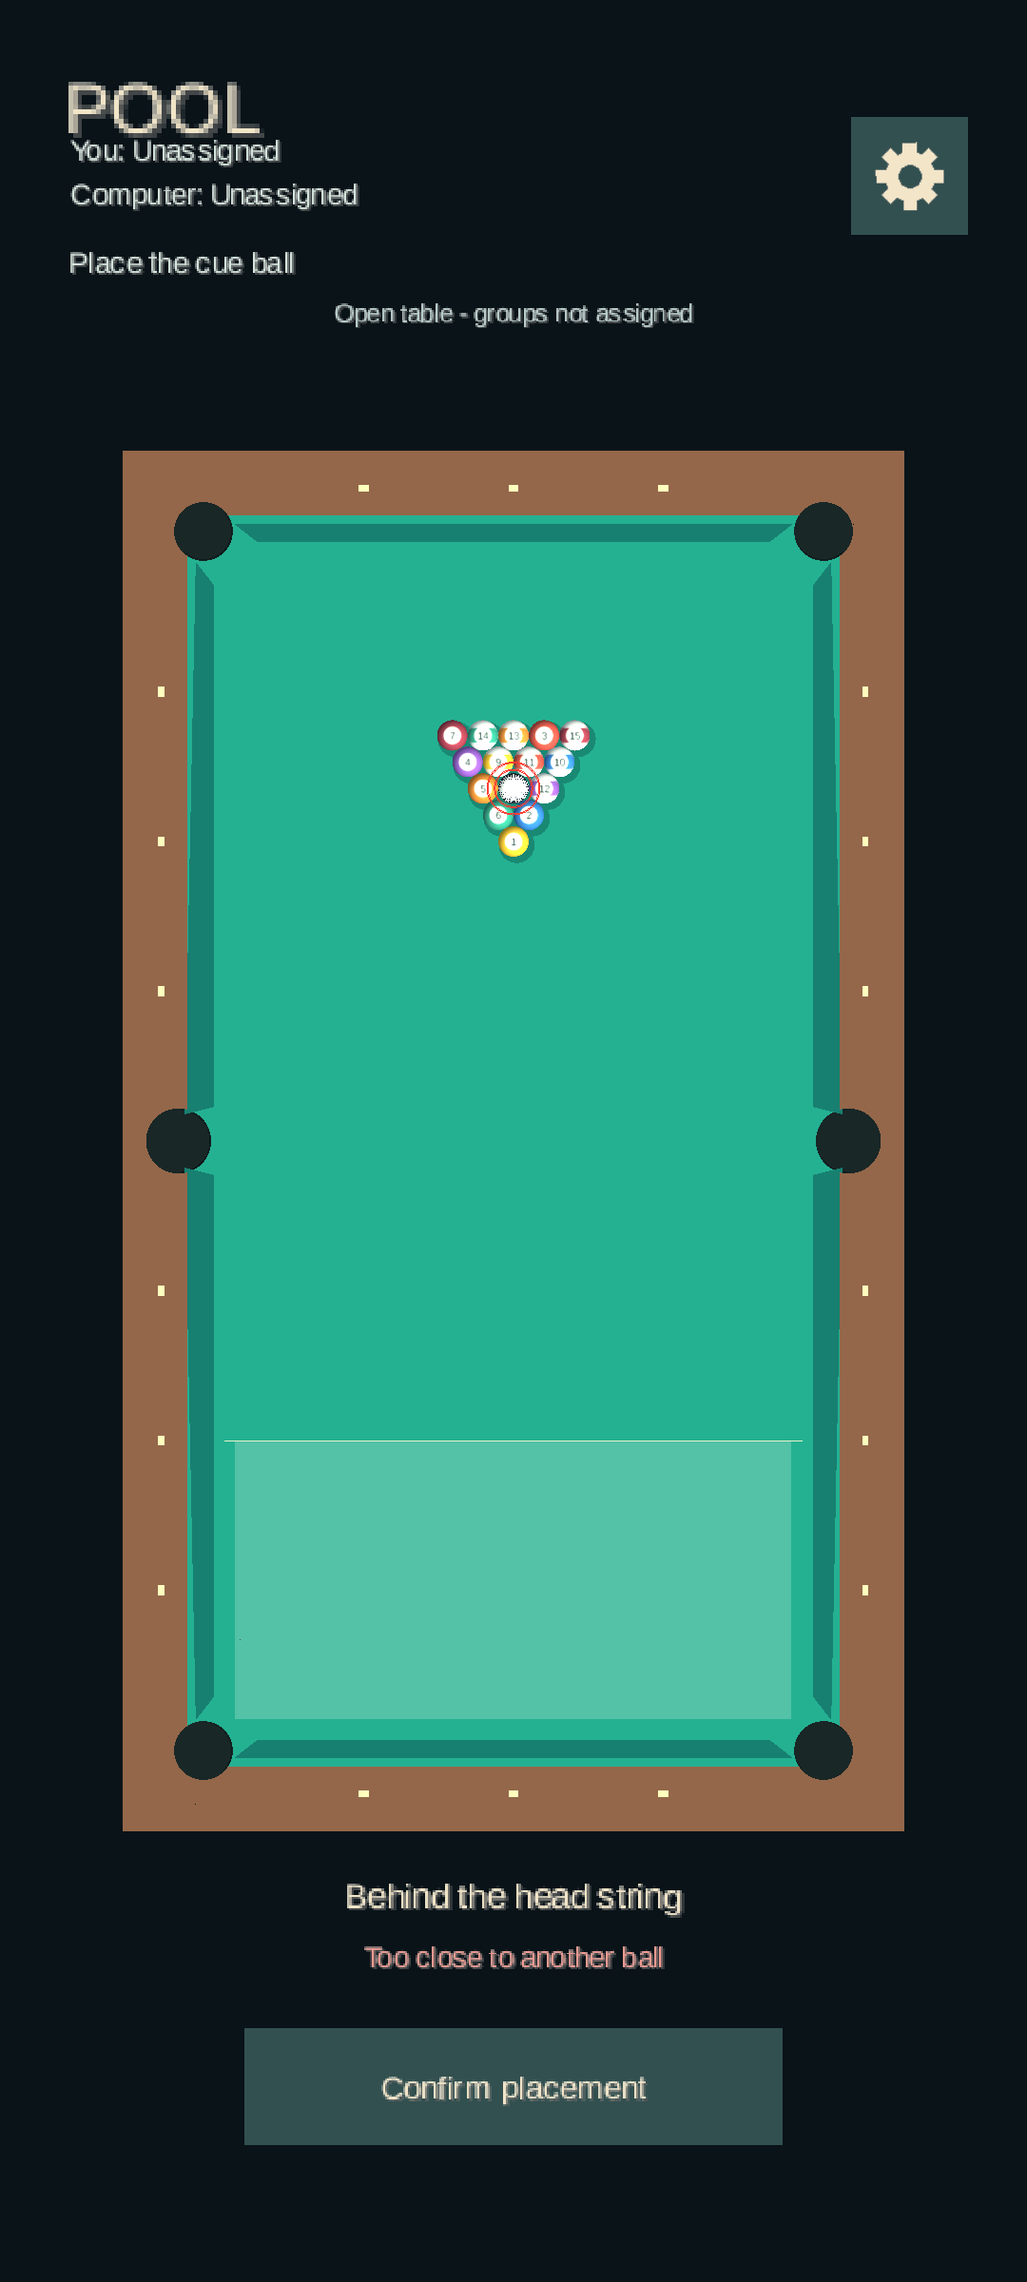
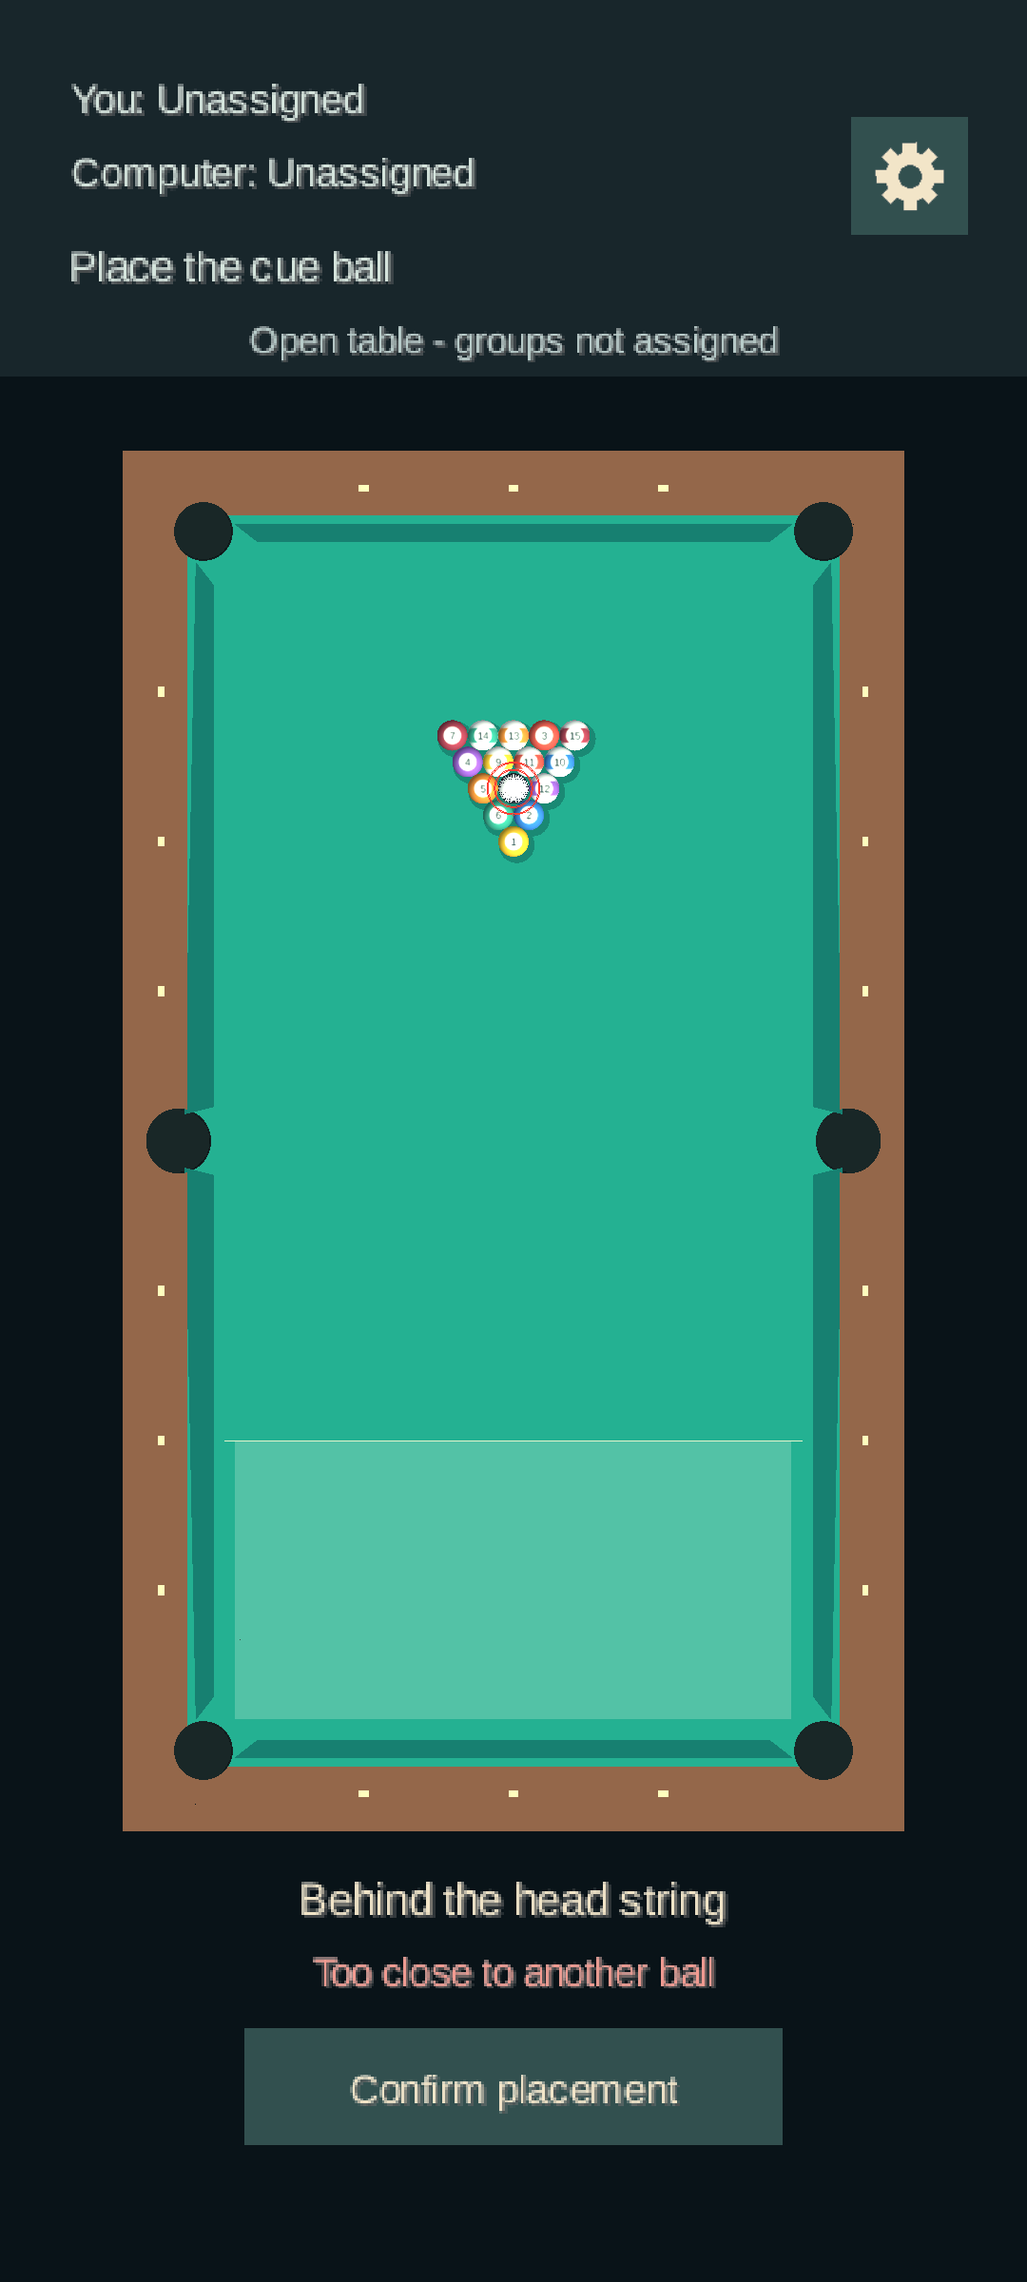
Improve text readability and prioritize useful ball-in-hand positions

Changed region(s): [[0.0611, 0.0312, 0.7639, 0.1562], [0.275, 0.8125, 0.7028, 0.875], [0.3361, 0.9062, 0.6722, 0.9375]]

diff --git a/core/src/main/kotlin/io/github/ffeltrinelli/pool/ui/GameHud.kt b/core/src/main/kotlin/io/github/ffeltrinelli/pool/ui/GameHud.kt
@@ -47,33 +47,34 @@ class GameHud : Disposable {
         val h = layout.uiHeight
         sprites.projectionMatrix = camera.combined
         sprites.begin()
-        text("POOL", 28f, h - 34f, 1.9f, "f2e5c8")
+        val headerHeight = if (presentation.notice != null && !session.finished) 220f else 154f
+        rectangle(Rectangle(0f, h - headerHeight, 420f, headerHeight), "08161ced")
         fun groupLabel(player: Player): String = session.group(player)?.let {
             "${it.label}: ${session.remaining(player)} left"
         } ?: "Unassigned"
-        text("You: ${groupLabel(Player.HUMAN)}", 29f, h - 57f, 0.78f, "d5e5dd")
-        text("Computer: ${groupLabel(Player.COMPUTER)}", 29f, h - 75f, 0.78f, "d5e5dd")
+        text("You: ${groupLabel(Player.HUMAN)}", 29f, h - 34f, 1.10f, "d5e5dd")
+        text("Computer: ${groupLabel(Player.COMPUTER)}", 29f, h - 64f, 1.10f, "d5e5dd")
         val status = when {
             presentation.computerThinking -> "Computer thinking..."
             session.placement != null -> if (session.player == Player.HUMAN) "Place the cue ball" else "Computer placing cue ball"
-            session.group(session.player) == null -> "${if (session.player == Player.HUMAN) "Your turn" else "Computer's turn"} - open table"
+            session.group(session.player) == null -> if (session.player == Player.HUMAN) "Your turn" else "Computer's turn"
             session.remaining(session.player) == 0 -> if (session.player == Player.HUMAN) "You're on the 8-ball" else "Computer is on the 8-ball"
             session.player == Player.HUMAN -> "Your turn"
             else -> "Computer's turn"
         }
-        text(status, 29f, h - 103f, 0.80f, "d5e5dd")
+        text(status, 29f, h - 103f, 1.15f, "d5e5dd")
         if (session.group(session.player) == null && !session.finished)
-            text("Open table - groups not assigned", 210f, h - 124f, 0.68f, "b8ccca", true)
+            text("Open table - groups not assigned", 210f, h - 133f, 1.00f, "b8ccca", true)
         if (presentation.notice != null && !session.finished) {
-            font.data.setScale(0.72f)
+            font.data.setScale(1.05f)
             font.color = Color.valueOf("f2d295")
-            font.draw(sprites, presentation.notice, 30f, h - 146f, 360f, com.badlogic.gdx.utils.Align.center, true)
+            font.draw(sprites, presentation.notice, 30f, h - 161f, 360f, com.badlogic.gdx.utils.Align.center, true)
         }
         if (session.placement != null && session.player == Player.HUMAN) {
             val instruction = if (session.placement == io.github.ffeltrinelli.pool.rules.PlacementRegion.ANYWHERE)
                 "Anywhere on the table" else "Behind the head string"
-            text(instruction, 210f, 163f, 0.95f, "f2e5c8", true)
-            text(presentation.placementError ?: "Tap or drag the highlighted ball", 210f, 137f, 0.78f,
+            text(instruction, 210f, 163f, 1.2f, "f2e5c8", true)
+            text(presentation.placementError ?: "Tap or drag the highlighted ball", 210f, 133f, 1.05f,
                 if (presentation.placementError == null) "b8ccca" else "f29b91", true)
             button(layout.confirmPlacement, "Confirm placement", presentation.placementError == null)
         }
@@ -92,12 +93,12 @@ class GameHud : Disposable {
     private fun drawSettings(mode: ViewMode, aidedAim: Boolean, difficulty: OpponentDifficulty) {
         shade()
         rectangle(layout.panel, "163039")
-        text("SETTINGS", 60f, layout.uiHeight / 2 + 202.5f, 1.35f, "f2e5c8")
+        text("SETTINGS", 60f, layout.uiHeight / 2 + 202.5f, 1.5f, "f2e5c8")
         button(layout.close, "X")
-        text("View mode", 60f, layout.uiHeight / 2 + 157.5f, 0.92f, "b8ccca")
+        text("View mode", 60f, layout.uiHeight / 2 + 163.5f, 1.1f, "b8ccca")
         button(layout.top, "Top view", mode == ViewMode.TOP)
         button(layout.player, "Player view", mode == ViewMode.PLAYER)
-        text("Aided aim", 60f, layout.uiHeight / 2 + 72.5f, 0.92f, "b8ccca")
+        text("Aided aim", 60f, layout.uiHeight / 2 + 78.5f, 1.1f, "b8ccca")
         button(layout.aidedAim, if (aidedAim) "On" else "Off", aidedAim)
         drawDifficulty(difficulty)
         button(layout.restart, "Restart")
@@ -106,7 +107,7 @@ class GameHud : Disposable {
 
     private fun drawDifficulty(difficulty: OpponentDifficulty) {
         val track = layout.difficulty
-        text("Difficulty: ${difficulty.label}", 60f, track.y + 67f, 0.92f, "b8ccca")
+        text("Difficulty: ${difficulty.label}", 60f, track.y + 73f, 1.1f, "b8ccca")
         rectangle(Rectangle(track.x + 50f, track.y + 22f, 200f, 4f), "527e70")
         for ((index, level) in OpponentDifficulty.entries.withIndex()) {
             val stop = layout.difficultyStops[index]
@@ -114,7 +115,7 @@ class GameHud : Disposable {
             val selected = level == difficulty
             rectangle(Rectangle(center - 5f, stop.y + 18f, 10f, 12f), "8ba6a8")
             if (selected) rectangle(Rectangle(center - 10f, stop.y + 14f, 20f, 20f), "d9bd83")
-            text(level.label, center, stop.y - 10f, 0.82f, if (selected) "f2e5c8" else "b8ccca", true)
+            text(level.label, center, stop.y - 10f, 1.05f, if (selected) "f2e5c8" else "b8ccca", true)
         }
     }
 
@@ -122,14 +123,17 @@ class GameHud : Disposable {
         val center = layout.uiHeight / 2
         shade()
         rectangle(Rectangle(30f, center - 112f, 360f, 225f), "163039")
-        text("MATCH COMPLETE", 210f, center + 80f, 0.72f, "9dbbb7", true)
+        text("MATCH COMPLETE", 210f, center + 80f, 1.0f, "9dbbb7", true)
         val result = when (session.result) {
             MatchResult.HUMAN_WINS -> "You win"
             MatchResult.COMPUTER_WINS -> "Computer wins"
             null -> ""
         }
-        text(result, 210f, center + 40f, 1.35f, "f2e5c8", true)
-        text(session.outcome?.decision?.loss ?: "Eight legally pocketed", 210f, center + 6f, 0.7f, "b8ccca", true)
+        text(result, 210f, center + 40f, 1.6f, "f2e5c8", true)
+        font.data.setScale(1f)
+        font.color = Color.valueOf("b8ccca")
+        font.draw(sprites, session.outcome?.decision?.loss ?: "Eight legally pocketed", 50f, center + 8f,
+            320f, com.badlogic.gdx.utils.Align.center, true)
         button(layout.playAgain, "PLAY AGAIN")
     }
 
@@ -146,7 +150,7 @@ class GameHud : Disposable {
     private fun button(rect: Rectangle, label: String, selected: Boolean = false) {
         rectangle(rect, if (selected) "527e70" else "32504f")
         if (selected) rectangle(Rectangle(rect.x, rect.y, rect.width, 3f), "d9bd83")
-        text(label, rect.x + rect.width / 2, rect.y + rect.height / 2 + 5f, 0.88f, "f2e5c8", true)
+        text(label, rect.x + rect.width / 2, rect.y + rect.height / 2 + 5f, 1.08f, "f2e5c8", true)
     }
 
     private fun text(value: String, x: Float, y: Float, scale: Float, hex: String, centered: Boolean = false) {

diff --git a/core/src/main/kotlin/io/github/ffeltrinelli/pool/opponent/PlanningPositions.kt b/core/src/main/kotlin/io/github/ffeltrinelli/pool/opponent/PlanningPositions.kt
@@ -9,15 +9,20 @@ internal object PlanningPositions {
         val region = table.placement ?: return listOf(table.balls.first { it.id == 0 }.point)
         val objects = table.balls.filter { it.id != 0 }.map { it.point }
         val direct = table.balls.filter { it.id in table.rulesContext().targets }.flatMap { ball ->
-            PocketGeometry.pockets.map { pocket -> ball.point - (pocket.center - ball.point).normalized() * 0.25f }
-        }
-        return (direct + BallPlacement.candidates(objects, region)).distinct()
-            .filter { BallPlacement.invalidReason(it, objects, region) == null }
-            .sortedWith(compareBy<Point> { (it - TableGeometry.CUE_START).length() }.thenBy { it.z }.thenBy { it.x })
-            .take(8)
+            PocketGeometry.pockets.map { pocket ->
+                (ball.point - (pocket.center - ball.point).normalized() * 0.25f) to (pocket.mouthCenter - ball.point).length()
+            }
+        }.sortedBy { it.second }.map { it.first }
+        val safe = BallPlacement.candidates(objects, region).sortedBy { (it - TableGeometry.CUE_START).length() }
+        // Preserve pot-aligned positions before grid fallbacks; proximity to the break spot is not shot quality.
+        val positions = if (table.rulesContext().breaking) safe else direct + safe
+        return positions.distinct().filter { BallPlacement.invalidReason(it, objects, region) == null }.take(8)
     }
     fun fallback(table: TableSnapshot): PlanningResult {
         val point = candidates(table).first()
-        return PlanningResult(ShotCandidates().fallback(table.withCue(point)), 0, 0, true, point)
+        val positioned = table.withCue(point)
+        val geometry = ShotCandidates()
+        val shot = geometry.generate(positioned).firstOrNull()?.shot ?: geometry.fallback(positioned)
+        return PlanningResult(shot, 0, 0, true, point)
     }
 }

diff --git a/core/src/test/kotlin/io/github/ffeltrinelli/pool/EightBallPlacementSearchTest.kt b/core/src/test/kotlin/io/github/ffeltrinelli/pool/EightBallPlacementSearchTest.kt
@@ -1,0 +1,34 @@
+package io.github.ffeltrinelli.pool
+
+import io.github.ffeltrinelli.pool.model.*
+import io.github.ffeltrinelli.pool.opponent.*
+import io.github.ffeltrinelli.pool.physics.*
+import io.github.ffeltrinelli.pool.rules.*
+import org.junit.Assert.*
+import org.junit.Test
+
+class EightBallPlacementSearchTest {
+    @Test fun `hard ball in hand finds a winning eight instead of preferring the break spot`() {
+        val planner = BulletShotPlanner(maxEvaluations = 64, deadlineMillis = Long.MAX_VALUE)
+        try {
+            val layouts = listOf(Point(0f, 0f), Point(0.3f, 0.2f), Point(-0.3f, -0.65f), Point(0.42f, 0.85f))
+                .map { listOf(BallSnapshot(8, it)) } + listOf(listOf(BallSnapshot(8, Point(0.1f, 0.2f)),
+                    BallSnapshot(9, Point(0.35f, 0.2f)), BallSnapshot(10, Point(-0.2f, -0.3f))))
+            for (balls in layouts) {
+                val point = balls.first { it.id == 8 }.point
+                val table = TableSnapshot(balls,
+                    RulesContext(balls.map { it.id }.toSet(), BallGroup.SOLIDS), PlacementRegion.ANYWHERE)
+                val plan = planner.plan(table, 17) { false }
+                val facts = ShotFacts()
+                val live = PoolPhysics(events = facts::accept)
+                try {
+                    live.restore(table.withCue(plan.cuePosition!!))
+                    live.strike(ExecutionAccuracy.apply(plan.shot, OpponentDifficulty.HARD, 17))
+                    repeat(3600) { live.step() }
+                    assertTrue("eight=$point placement=${plan.cuePosition} shot=${plan.shot} pockets=${facts.pocketed} foul=${EightBallRules.resolve(table.rulesContext(), facts).foul}",
+                        EightBallRules.resolve(table.rulesContext(), facts).won)
+                } finally { live.dispose() }
+            }
+        } finally { planner.close() }
+    }
+}

diff --git a/core/src/main/kotlin/io/github/ffeltrinelli/pool/opponent/ComputerShotPlanner.kt b/core/src/main/kotlin/io/github/ffeltrinelli/pool/opponent/ComputerShotPlanner.kt
@@ -40,10 +40,14 @@ class BulletShotPlanner(
         val geometry = ShotCandidates()
         val positions = PlanningPositions.candidates(table)
         val initialTable = table.withCue(positions.first())
-        val search = ShotSearch(initialTable, geometry.fallback(initialTable), world, maxEvaluations, deadlineMillis, cancelled, started)
-        val seeds = positions.flatMap { position ->
-            geometry.generate(table.withCue(position)).take(2).map { it.shot to position }
-        }.take(8).ifEmpty { listOf(geometry.fallback(initialTable) to positions.first()) }
+        val search = ShotSearch(initialTable, (geometry.generate(initialTable).firstOrNull()?.shot ?: geometry.fallback(initialTable)), world, maxEvaluations, deadlineMillis, cancelled, started)
+        val seeds = if (table.placement == null) {
+            geometry.generate(initialTable).take(4).map { it.shot to positions.first() }
+                .ifEmpty { listOf(geometry.fallback(initialTable) to positions.first()) }
+        } else positions.map { position ->
+            val positioned = table.withCue(position)
+            (geometry.generate(positioned).firstOrNull()?.shot ?: geometry.fallback(positioned)) to position
+        }
         try {
             seeds.forEach { if (search.remaining > 0) search.evaluate(it.first, it.second) }
             for ((index, initial) in seeds.withIndex()) {

diff --git a/docs/eight-ball-review.md b/docs/eight-ball-review.md
@@ -8,6 +8,8 @@ The current game implements the simplified WPA variant described in [the README]
 - Session owns groups, pre-shot eligibility, break/placement phases, alternating requested breakers and final outcomes. Physics reports contact episodes, rail hits, head-string crossing, physical pockets and separate diagnostic off-table removals.
 - Human placement has an independent preview and confirmation. Shared geometry validation rejects balls, bounds, jaws, cushions and pocket openings. The computer evaluates bounded placement/shot pairs under its existing budget.
 - The eight is spotted by a focused physics operation that preserves every other body's transform. The obsolete automatic starting-half replacement search was removed.
+- Ball-in-hand positions prioritize pot-aligned locations before break-spot grid fallbacks, and every shortlisted position gets an evaluated seed. A native Hard regression wins from five eight-ball-only-target layouts, including opponent blockers.
+- The HUD omits the Pool title and uses larger text with a dark backing for Player-view readability.
 - The computer worker retains its cancellation/resource boundary. Selected placement is applied once before animation; suspension retains the selected shot without duplicating placement or contact.
 - Physics material/solver tuning, human gestures, camera tuning, execution-error levels and audio assets are unchanged. Rack positions/packing intentionally follow the corrected rack.
 
@@ -32,7 +34,7 @@ Local delivery command:
 ALSOFT_DRIVERS=null ./gradlew :core:test :lwjgl3:visualTest :lwjgl3:audioTest :android:lintDebug :android:assembleDebug --console=plain --no-parallel
 ```
 
-JDK 21. **157 tests passed; one opt-in calibration test skipped; zero failures/errors.** All **135** rendered scenarios passed at 1080 × 2400. Four WAVs and production audio lifecycle passed the OpenAL null-backend smoke suite. Android lint and debug APK build passed; pre-existing lint warnings remain.
+JDK 21. **158 tests passed; one opt-in calibration test skipped; zero failures/errors.** All **135** rendered scenarios passed at 1080 × 2400. Four WAVs and production audio lifecycle passed the OpenAL null-backend smoke suite. Android lint and debug APK build passed; pre-existing lint warnings remain.
 
 Rules coverage includes groups, mixed pots, first contact/cushion order, break counting, scratches, eight-ball eligibility, final scratches, duplicate events, placement and requested-break alternation. Native coverage includes contact facts across frame partitions, silent off-table removal, non-disruptive spotting, legal computer targets and placement search budgets. Input/coordination tests cover invalid confirmation, placement input isolation, selected-placement delivery once, suspension, stale worker results and failure fallback with a cue position.
 

diff --git a/docs/device-validation.md b/docs/device-validation.md
@@ -254,7 +254,7 @@ The debug APK installed and cold-launched on the **OnePlus 8T / Android 14 / API
 
 Replaced ball-count scoring with the simplified WPA rules in the [README](../README.md#rules-of-this-game). Fresh breaks and fouls now require valid cue-ball placement; new requested racks alternate breakers. Added explicit open-table/group messages and eight-ball results.
 
-Local verification: **157 passed tests, one opt-in calibration skipped, zero failures; 135 rendered scenarios passed**. Audio assets and production lifecycle passed through OpenAL's null backend. Android lint and debug APK build passed. Existing lint warnings were not introduced by this change. See the [implementation/documentation review](eight-ball-review.md).
+Local verification: **158 passed tests, one opt-in calibration skipped, zero failures; 135 rendered scenarios passed**. Audio assets and production lifecycle passed through OpenAL's null backend. Android lint and debug APK build passed. Existing lint warnings were not introduced by this change. See the [implementation/documentation review](eight-ball-review.md).
 
 Installed the debug APK on the OnePlus 8T KB2003, Android 14 / API 34, retaining view, aided-aim and difficulty preferences. Observed:
 
@@ -268,3 +268,7 @@ Installed the debug APK on the OnePlus 8T KB2003, Android 14 / API 34, retaining
 Phone evidence is generated under `build/reports/device-eight-ball`. The final confirmation-alignment correction also has automated rack/gesture coverage; the final APK is reinstalled before delivery.
 
 Not claimed as completed: a full human-played rack through its result, deliberate phone scratch/ball-in-hand recovery, all rare break/head-string exceptions on the phone, a new ten-minute performance soak, or subjective user acceptance of the new placement interaction. Automated rule/native/rendered tests cover these rule outcomes; earlier device records remain historical evidence, not acceptance of this build.
+
+### Feedback and revisions
+
+The user requested removal of the Pool heading, larger text, and reported a poor Hard-difficulty placement when the computer only needed the eight. Removed the heading, enlarged HUD/settings/placement/result text, and added a dark HUD backing for readability over Player view. The placement shortlist had favored proximity to the break spot and could omit later positions from seed evaluation; it now prioritizes pot-aligned positions and evaluates every shortlisted position before optimization. Five deterministic native layouts, including remaining opponent blockers, now verify a winning Hard placement/shot with the 64-evaluation budget. This regression establishes those cases, not a guarantee of every possible pot. The revised build is installed for further human acceptance.

diff --git a/README.md b/README.md
@@ -215,7 +215,7 @@ flowchart LR
     O -->|Intended object-ball path| P[Pocket]
 ```
 
-A fixed-position shot shortlists two geometric candidates. Ball in hand considers up to eight valid positions, including direct-pot seeds and a safe grid, and up to two shots per position, capped at eight starting pairs. All share one search budget. Breaks seed a strong 1.10 N·s shot at the apex. The initial impulse in N·s is `clamp(0.18 + 0.16 × sqrt(cueDistance + objectDistance / cutCosine²), 0.08, 1.15)`, with distances in metres. This is a rough seed, not a second physics model. If no direct pot is available, seed a 0.55 N·s shot toward the nearest legal target.
+A fixed-position shot shortlists up to four geometric candidates. Ball in hand prioritizes valid positions aligned behind direct pots, ordered by object-to-pocket distance, ahead of safe grid fallbacks. It considers up to eight positions and evaluates a seed from every shortlisted position before optimization, rather than discarding later placements. All share one search budget. Breaks seed a strong 1.10 N·s shot at the apex. The initial impulse in N·s is `clamp(0.18 + 0.16 × sqrt(cueDistance + objectDistance / cutCosine²), 0.08, 1.15)`, with distances in metres. This is a rough seed, not a second physics model. If no direct pot is available, seed a 0.55 N·s shot toward the nearest legal target.
 
 ### What CMA-ES searches
 
